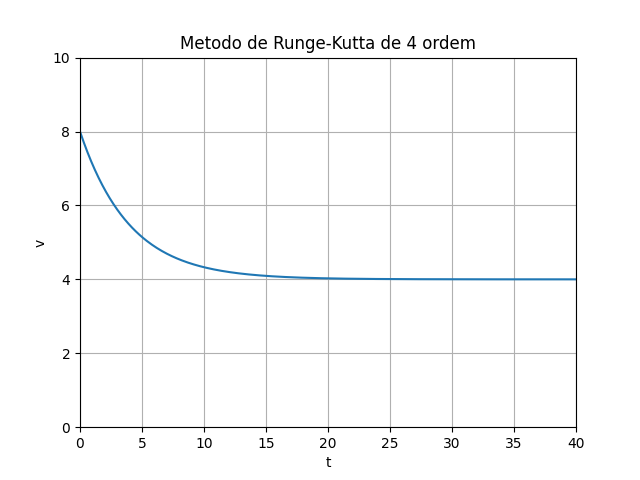
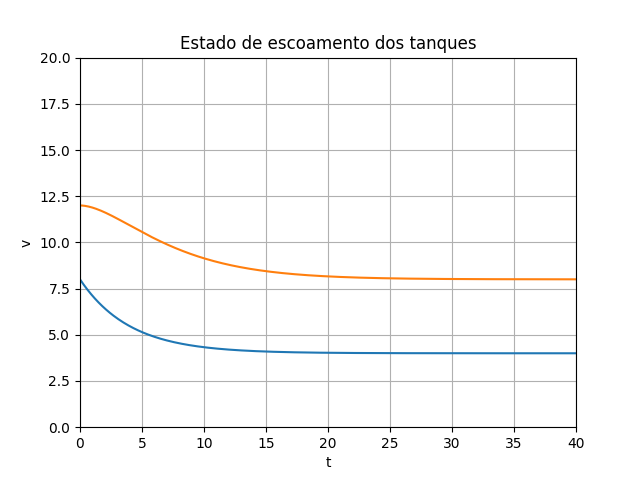
added second EDO

diff --git a/rungekutta.py b/rungekutta.py
@@ -2,12 +2,14 @@ import matplotlib.pyplot as plt
 import numpy as np
 # RK-4 python
 # EDO
-def f(x,y):
-    return -y/4 + 1
+def f2(t,v2):
+    return -v2/4 + 1
 
+def f1(t,v2,v1):
+    return -v1/4 + v2/4 + 1
 
 # metodo de runge-kutta de 4 ordem
-def rk4(x0,y0,h,n):
+def rk4(t0,v2_0,v1_0,h,n):
     
     print('\n--------METODO DE RUNGE-KUTTA DE 4 ORDEM--------')
     
@@ -16,47 +18,70 @@ def rk4(x0,y0,h,n):
     print('-------------------------')    
     print('x0\ty0\tyn')
     print('-------------------------')
-    valores_t = [x0]
-    valores_v = [y0]
+    valores_t = [t0]
+    valores_v2 = [v2_0]
+    valores_v1 = [v1_0]
 
     for i in range(n):
 
-        k1 = h * (f(x0, y0))
-        k2 = h * (f((x0+h/2), (y0+k1/2)))
-        k3 = h * (f((x0+h/2), (y0+k2/2)))
-        k4 = h * (f((x0+h), (y0+k3)))
+        k1 = h * (f2(t0, v2_0))
+        k2 = h * (f2((t0+h/2), (v2_0+k1/2)))
+        k3 = h * (f2((t0+h/2), (v2_0+k2/2)))
+        k4 = h * (f2((t0+h), (v2_0+k3)))
         k = (k1+2*k2+2*k3+k4)/6
-        yn = y0 + k
-        print('%f\t%f\t%f'% (x0,y0,yn) )
+        v2_n = v2_0 + k
+        print('%f\t%f\t%f'% (t0,v2_0,v2_n) )
         print('-------------------------')
-        y0 = yn
-        x0 = x0+h
-        valores_t.append(x0)
-        valores_v.append(y0)
-    print('\npara t=%f, v=%f' %(h*n,yn))
-    return valores_t, valores_v
+        v2_0 = v2_n
+
+
+
+
+        k1 = h * (f1(t0, v2_0,v1_0))
+        k2 = h * (f1((t0+h/2), v2_0,(v1_0+k1/2)))
+        k3 = h * (f1((t0+h/2), v2_0,(v1_0+k2/2)))
+        k4 = h * (f1((t0+h), v2_0,(v1_0+k3)))
+        k = (k1+2*k2+2*k3+k4)/6
+        v1_n = v1_0 + k
+
+        v1_0 = v1_n
+        t0 = t0+h
+
+
+        valores_t.append(t0)
+        valores_v1.append(v1_0)
+        valores_v2.append(v2_0)
+
+    print('\npara t=%f, v=%f' %(h*n,v2_n))
+    return valores_t, valores_v1, valores_v2
 
 # Inputs
-print("Nesse caso t0=0 e v0=8\n")
-print('Condicoes iniciais:')
-x0 = float(input('t0 = '))
-y0 = float(input('v0 = '))
+def main():
+    print("Nesse caso t0=0 v2_0=8 e v1_0=12\n")
+    print('Condicoes iniciais:')
+    t0 = float(input('t0 = '))
+    v1_0 = float(input('v1_0 = '))
+    v2_0 = float(input('v2_0 = '))
 
-print("Nesse caso h=0.1\n")
-print('Passo: ')
-h = float(input('h = '))
+    print("Nesse caso h=0.1\n")
+    print('Passo: ')
+    h = float(input('h = '))
 
-print("n=1000 gera valores suficientes\n")
-print('Quantidade de iteracoes:')
-step = int(input('n = '))
+    print("n=1000 gera valores suficientes\n")
+    print('Quantidade de iteracoes:')
+    step = int(input('n = '))
 
-# chamada rk4
-valores_t, valores_v = rk4(x0,y0,h,step)
-plt.xlim(0, 40)
-plt.ylim(0, 10)
-plt.plot(valores_t, valores_v)
-plt.xlabel('t')
-plt.ylabel('v')
-plt.title('Metodo de Runge-Kutta de 4 ordem')
-plt.grid(True)
-plt.savefig("rk4.png")
+    # chamada rk4
+    valores_t, valores_v1,valores_v2 = rk4(t0,v2_0,v1_0,h,step)
+    plt.xlim(0, 40)
+    plt.ylim(0, 20)
+    plt.plot(valores_t, valores_v2)
+    plt.plot(valores_t, valores_v1)
+    plt.xlabel('t')
+    plt.ylabel('v')
+    plt.title('Estado de escoamento dos tanques')
+    plt.grid(True)
+    plt.savefig("rk4.png")
+
+if __name__ == "__main__":
+    main()
